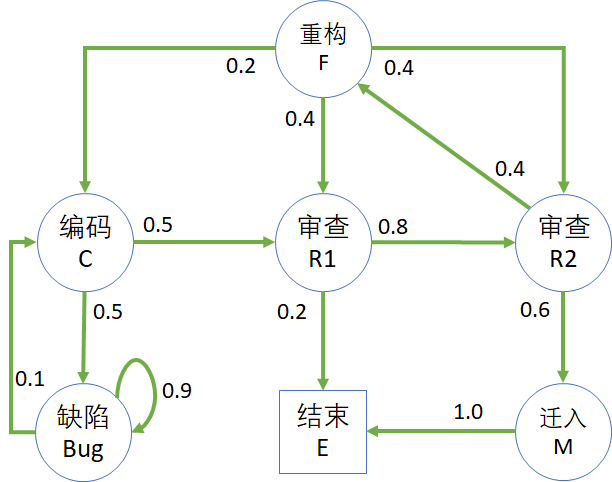
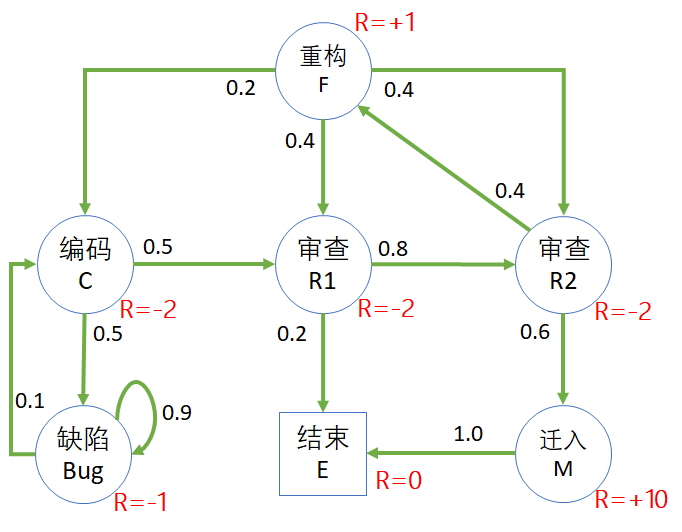
add

diff --git a/基础教程/A7-强化学习/draft/70-学生学习问题 - 贝尔曼方程/实例化公式推导.md b/基础教程/A7-强化学习/draft/70-学生学习问题 - 贝尔曼方程/实例化公式推导.md
@@ -23,7 +23,7 @@
 图 1 是一个有关学生的学习、考试等一些列状态的马尔可夫链，也可以叫做状态转移图，并且给每个状态都赋予了一个即时奖励值。
 
 <center>
-<img src="./img/Student-2.png" width="500">
+<img src="./img/Code-1.png" width="500">
 
 图 1 学习问题的状态转移概率图
 </center>
